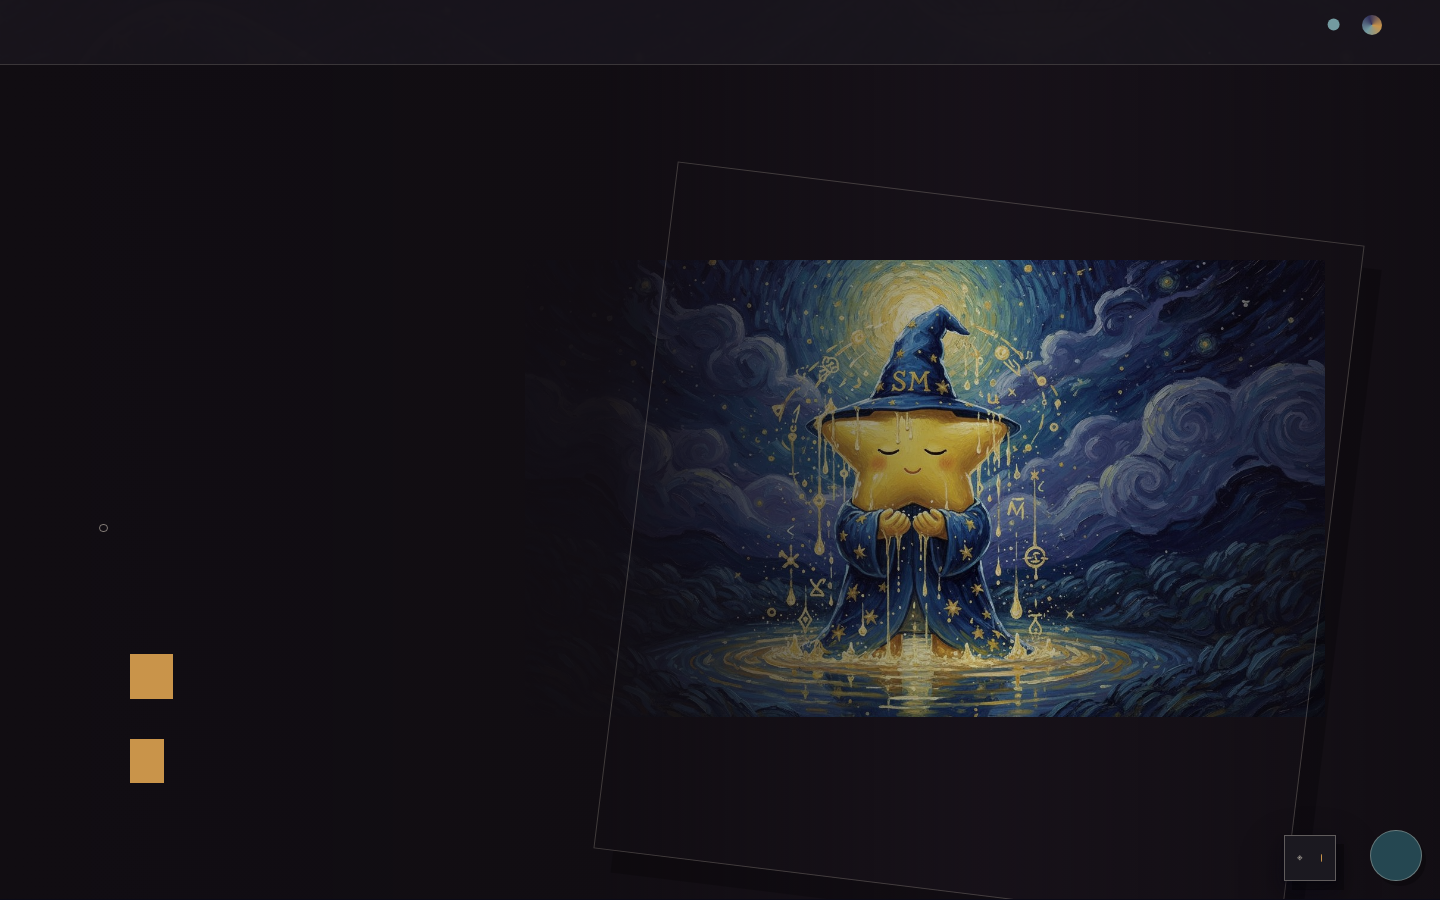
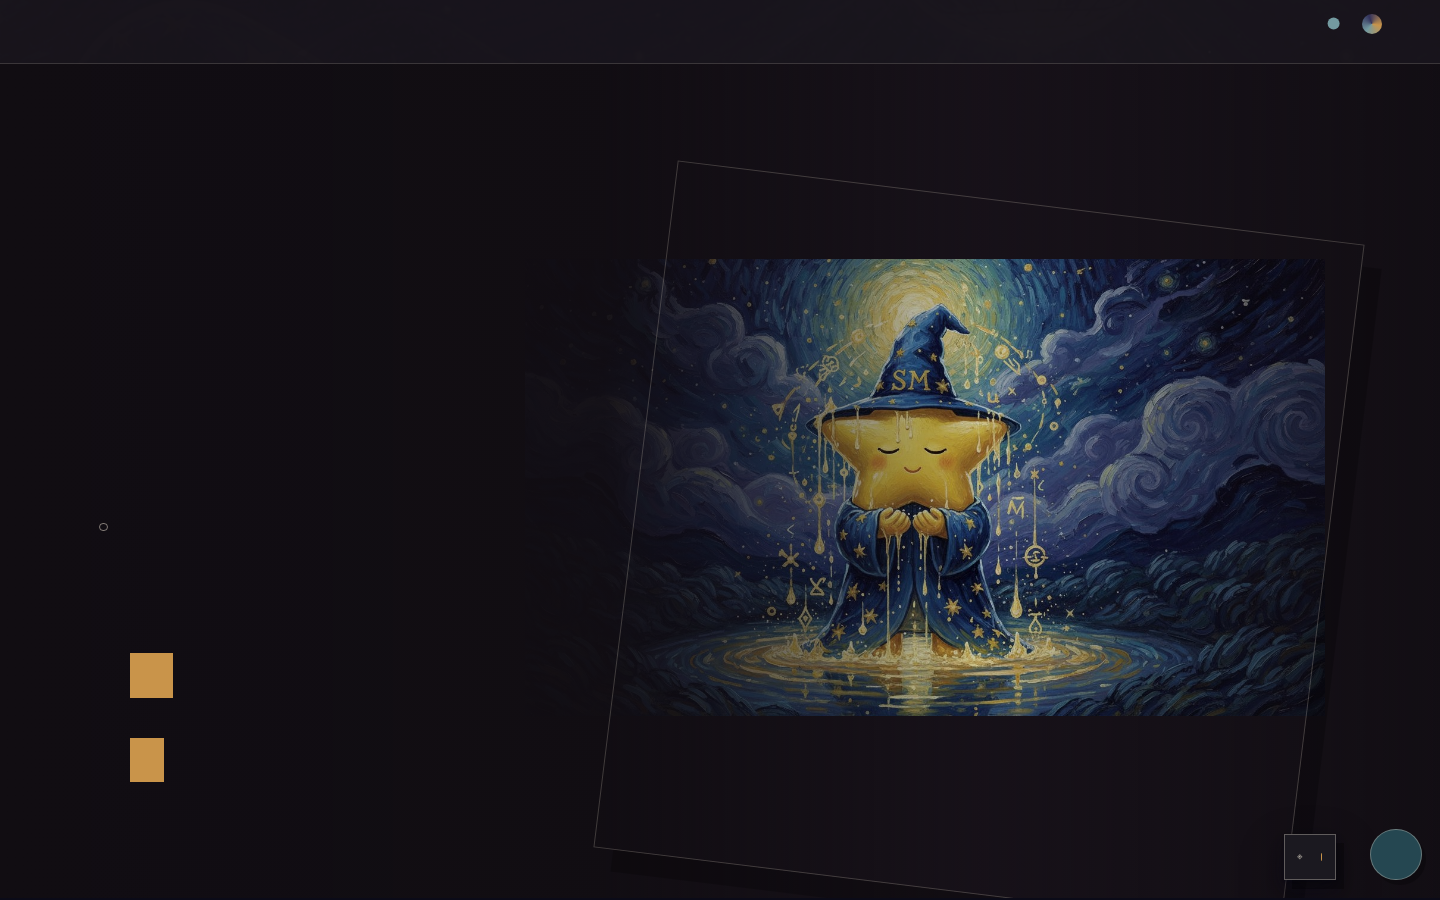
Soften motion to dojo register: gentle synapse pulse, quiet surface handoff, breathing teaching line in Open Air

diff --git a/starmilk-refactor.css b/starmilk-refactor.css
@@ -746,6 +746,26 @@ section { position: relative; overflow: clip; padding: var(--space) var(--gutter
   font: 400 clamp(1.05rem, 2.1vw, 1.3rem)/1.7 var(--font-display);
   letter-spacing: -.01em;
 }
+/* Quiet teaching: a slow dissolving line, dojo-voice. No jargon, no urgency. */
+.open-air-teaching {
+  position: relative;
+  z-index: 1;
+  max-width: 30rem;
+  margin: var(--space-3) 0 0;
+  padding: 0 var(--gutter) clamp(1.2rem, 3vw, 2.4rem);
+  color: rgba(233,226,210,.52);
+  font: 400 .92rem/1.7 var(--font-display);
+  font-style: italic;
+  letter-spacing: .01em;
+  animation: teaching-breathe 14s ease-in-out infinite;
+}
+@keyframes teaching-breathe {
+  0%, 100% { opacity: .32; }
+  50% { opacity: .68; }
+}
+@media (prefers-reduced-motion: reduce) {
+  .open-air-teaching { animation: none; opacity: .6; }
+}
 .open-air-kicker {
   display: block;
   margin-bottom: var(--space-3);
@@ -904,7 +924,7 @@ body.starmilk-playing .card:hover, body.starmilk-playing .game-shell:hover { box
 body.starmilk-tuning .hero-synapse-status::before { border-color: var(--river); animation: synapse-tune 1.1s linear infinite; }
 body.starmilk-afterglow #hero::after { border-color: rgba(226,180,126,.34); transition: border-color 1.3s var(--ease), box-shadow 1.3s var(--ease), transform 1.3s var(--ease); }
 body.starmilk-playing .hero-synapse-status::before { border-color: rgba(242,200,145,calc(.52 + var(--synapse-pulse) * .48)); box-shadow: 0 0 calc(9px + var(--synapse-pulse) * 12px) rgba(226,180,126,calc(.14 + var(--synapse-pulse) * .42)); transform: scale(calc(1 + var(--synapse-pulse) * .48)); }
-@keyframes synapse-live { 0%, 100% { transform: scale(1); box-shadow: 0 0 0 0 rgba(226,180,126,.44); } 52% { transform: scale(1.35); box-shadow: 0 0 0 .58rem rgba(226,180,126,0); } }
+@keyframes synapse-live { 0%, 100% { transform: scale(1); box-shadow: 0 0 0 0 rgba(226,180,126,.3); } 50% { transform: scale(1.08); box-shadow: 0 0 0 .34rem rgba(226,180,126,0); } }
 @keyframes synapse-tune { to { transform: rotate(1turn); } }
 @media (max-width: 760px) {
   .hero-synapse-status { top: 5.5rem; left: 1.3rem; font-size: .58rem; }
@@ -930,8 +950,8 @@ body.starmilk-playing .hero-synapse-status::before { border-color: rgba(242,200,
 .mood-ring-overlay.open { visibility: visible; opacity: 1; pointer-events: auto; transition-delay: 0s; }
 .mood-ring-card { transform: translate3d(0,18px,0) scale(.972); transform-origin: center; transition: transform .32s var(--ease), box-shadow .32s var(--ease); }
 .mood-ring-overlay.open .mood-ring-card { transform: translate3d(0,0,0) scale(1); }
-body.starmilk-surface-shift .hero-synapse-status::before { animation: surface-handoff .46s var(--ease) both; }
-@keyframes surface-handoff { 0% { transform: scale(.7); opacity: .35; } 45% { transform: scale(1.8); opacity: 1; } 100% { transform: scale(1); opacity: 1; } }
+body.starmilk-surface-shift .hero-synapse-status::before { animation: surface-handoff .9s var(--ease) both; }
+@keyframes surface-handoff { 0% { transform: scale(.92); opacity: .4; } 55% { transform: scale(1.05); opacity: 1; } 100% { transform: scale(1); opacity: 1; } }
 @media (prefers-reduced-motion: reduce) {
   .radio-floating, .starmilk-chat-panel, .mood-ring-overlay, .mood-ring-card { transition-duration: .01ms; }
   body.starmilk-surface-shift .hero-synapse-status::before { animation: none; }

diff --git a/index.html b/index.html
@@ -97,7 +97,7 @@
     }
   </script>
 
-  <link rel="stylesheet" href="starmilk-refactor.css?v=mothership-commons-20261006c">
+  <link rel="stylesheet" href="starmilk-refactor.css?v=mothership-commons-20261006d">
 </head>
 <body>
 <div class="paint-grain" aria-hidden="true"></div>
@@ -375,6 +375,9 @@
       Out here the sky is larger than any one story.
       People pass through it together — skating, talking, standing still —
       and the evening holds all of them the same way.
+    </p>
+    <p class="open-air-teaching" aria-hidden="true">
+      You can put something down for a moment. The sky will remember it for you.
     </p>
   </section>
 
